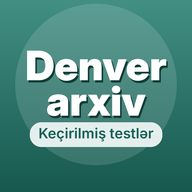
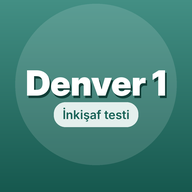
Adı Denver 1 edir: ikon, manifest, başlıq (#6)
Claude-Session: https://claude.ai/code/session_01WKbkPG5drf1wkwFgCZD8Qs

Changed region(s): [[0.125, 0.25, 0.875, 0.7812]]

diff --git a/index.html b/index.html
@@ -3,7 +3,7 @@
 <head>
     <meta charset="UTF-8">
     <meta name="viewport" content="width=device-width, initial-scale=1.0, user-scalable=yes">
-    <title>Denver II Profesional İnkişaf Testi – Keçirilmiş testlər</title>
+    <title>Denver 1 Profesional İnkişaf Testi – Keçirilmiş testlər</title>
     <link href="https://fonts.googleapis.com/css2?family=Inter:opsz,wght@14..32,300;14..32,400;14..32,500;14..32,600;14..32,700&display=swap" rel="stylesheet">
     <link rel="stylesheet" href="https://cdnjs.cloudflare.com/ajax/libs/font-awesome/6.0.0-beta3/css/all.min.css">
     <style>
@@ -459,7 +459,7 @@ document.getElementById('dvgModal').addEventListener('mousemove',function(e){
 
 <div class="container">
     <div class="header">
-        <h1 id="anpLogoTap" style="cursor:default">Denver II İnkişaf Testi <span class="badge">📋 peşəkar versiya</span></h1>
+        <h1 id="anpLogoTap" style="cursor:default">Denver 1 İnkişaf Testi <span class="badge">📋 peşəkar versiya</span></h1>
         <div class="subhead"> • Xüsusi qayğıya ehtiyacı olan uşaqlar üçün fərdi qiymətləndirmə • </div>
     </div>
 
